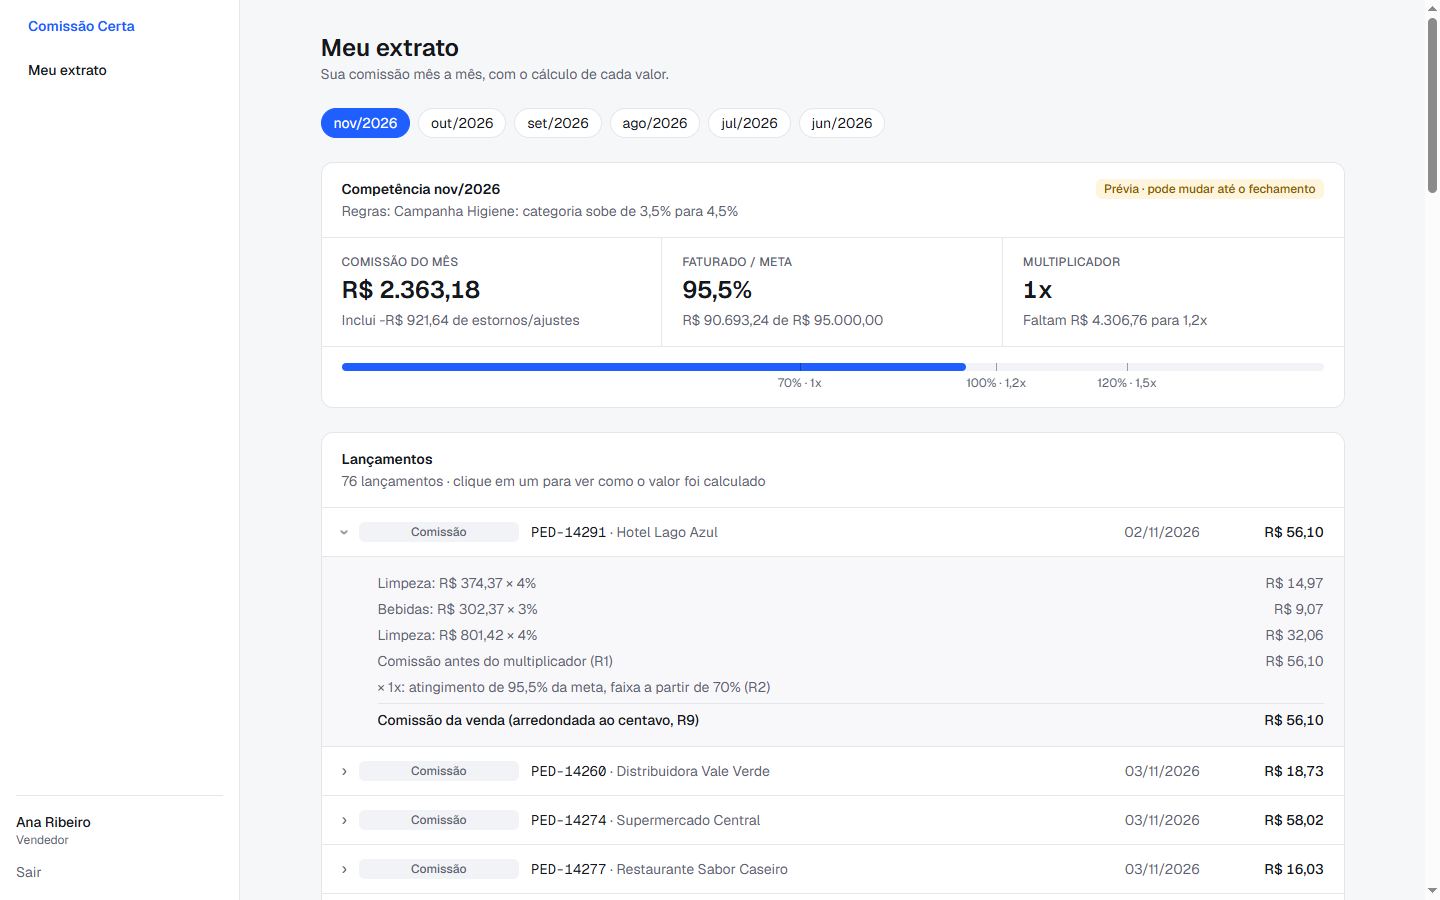
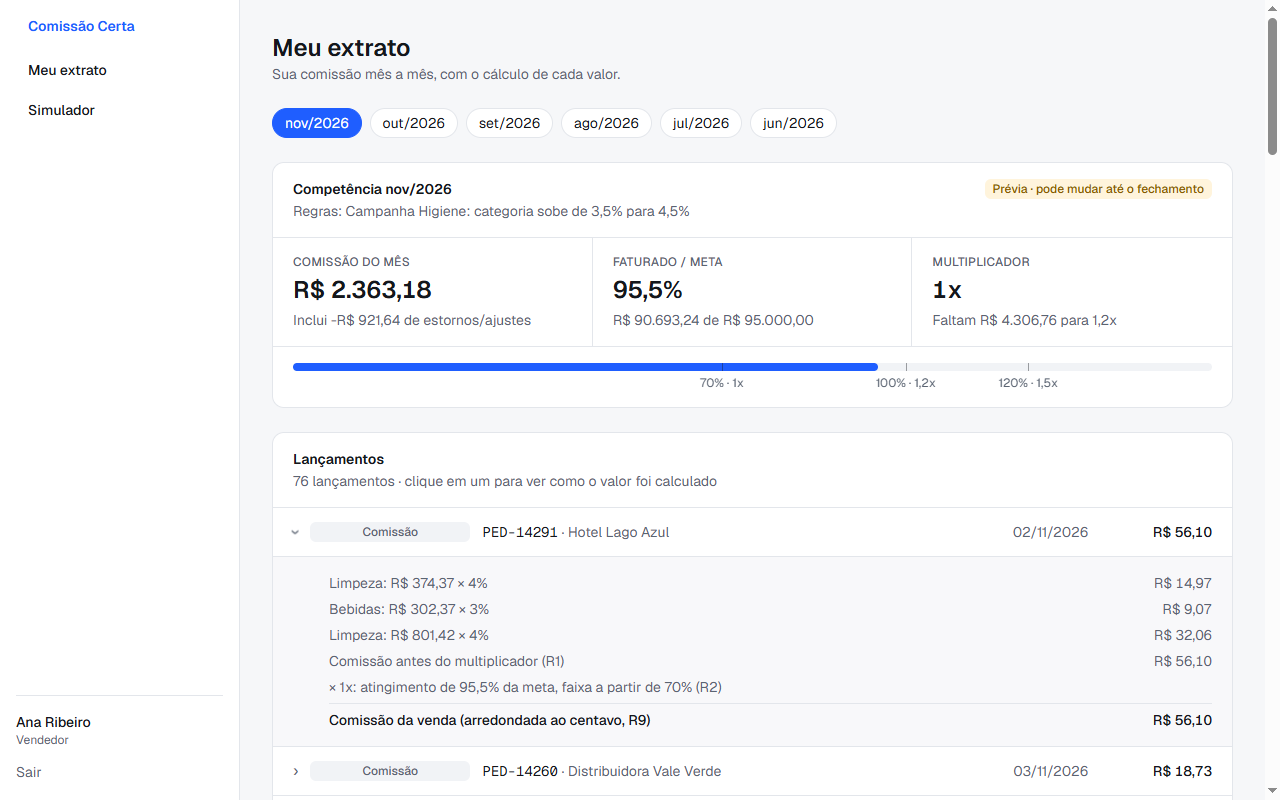
docs: README em formato de case com screenshots de todas as telas
- problema → regras → o que cada papel vê → decisões de engenharia → limitações
- 6 screenshots novos (extrato, simulador, painel do gestor, revisão de regras, importação, fechamento)
- design.md marcado como implementado

diff --git a/README.md b/README.md
@@ -1,56 +1,131 @@
 # Comissão Certa
 
-Motor de comissões de vendas com **regras de negócio versionadas, testadas e explicáveis**, para uma distribuidora B2B fictícia (Distribuidora Horizonte).
+Sistema de comissão de vendas para uma distribuidora B2B fictícia, a **Distribuidora Horizonte**. As regras de negócio ficam no centro: são versionadas, cobertas por testes e explicáveis linha a linha.
 
-> 🚧 Em construção. Pronto até aqui: **motor de regras com 48 testes**, fechamento imutável, seed realista, login com 3 papéis e **extrato do vendedor com memória de cálculo**.
+**119 testes** · **9 regras de negócio** · **3 papéis** (vendedor, gestor, admin) · Next.js 16 + PostgreSQL
 
-![Extrato do vendedor: cada lançamento explica como o valor foi calculado](docs/img/extrato-vendedor.png)
+![Painel do gestor: prévia do mês, projeção para o fim do mês, ranking e evolução](docs/img/painel-gestor.png)
 
 ## O problema
-Em muitas empresas a comissão é calculada em planilha. Faixas de meta, percentuais por categoria, devoluções e clientes inadimplentes viram fórmulas frágeis, e todo fim de mês alguém pergunta: *"por que eu recebi isso?"*
+
+Em muitas empresas, a comissão é calculada em planilha. Faixas de meta, percentual por categoria, devoluções e clientes que não pagam viram fórmulas frágeis. Todo fim de mês alguém pergunta *"por que eu recebi esse valor?"*, e ninguém sabe responder sem abrir a planilha.
+
+O Comissão Certa responde a essa pergunta para cada centavo. Cada lançamento guarda a **memória de cálculo**: itens, percentual, atingimento, faixa e versão das regras usada.
 
 ## As regras
-| # | Regra | Parâmetros iniciais |
+
+| # | Regra | Parâmetros da versão inicial |
 |---|---|---|
-| R1 | Comissão base por categoria | Alimentos 2% · Bebidas 3% · Limpeza 4% · Higiene 3,5% |
-| R2 | Multiplicador por atingimento da meta | < 70% → 0,5x · 70–99% → 1,0x · 100–119% → 1,2x · ≥ 120% → 1,5x |
-| R3 | Estorno por devolução no mês em que ela ocorre | — |
-| R4 | Estorno por inadimplência e reversão se o cliente pagar | tolerância de 60 dias |
+| R1 | Comissão base por categoria, sobre o valor faturado | Alimentos 2% · Bebidas 3% · Limpeza 4% · Higiene 3,5% |
+| R2 | Multiplicador pelo atingimento da meta do mês | < 70% → 0,5x · 70–99% → 1x · 100–119% → 1,2x · ≥ 120% → 1,5x |
+| R3 | Devolução de venda já comissionada gera estorno no mês da devolução | — |
+| R4 | Título vencido há mais de 60 dias estorna a comissão; se o cliente pagar, ela volta | tolerância de 60 dias |
 | R5 | Bônus do gestor quando a equipe bate a meta coletiva | 10% da comissão da equipe |
 | R6 | Teto mensal por vendedor | R$ 25.000,00 |
-| R7 | Regras versionadas por vigência | mudar junho não altera maio |
-| R8 | Fechamento do mês imutável e auditado | — |
-| R9 | Dinheiro em centavos inteiros, arredondamento half-up por linha | — |
+| R7 | Regras versionadas por vigência: mudar dezembro não altera novembro | — |
+| R8 | Mês fechado é imutável e auditado; correções entram no fechamento seguinte | — |
+| R9 | Dinheiro em centavos inteiros e percentuais em pontos-base, arredondamento half-up por linha | — |
 
-Cada linha de comissão guarda a **memória de cálculo** (itens, %, atingimento, faixa, versão), para que qualquer valor possa ser explicado.
+Os testes leem como a regra. Um trecho de [`motor.test.ts`](src/domain/commission/__tests__/motor.test.ts):
 
-Detalhes e decisões: [`docs/design.md`](docs/design.md).
+```ts
+it.each([
+  // faturado, meta, atingimento (bp), multiplicador (bp)
+  [6_999, 10_000, 6_999, 5_000],    // 69,99% → 0,5x
+  [7_000, 10_000, 7_000, 10_000],   // 70%    → 1,0x
+  [10_000, 10_000, 10_000, 12_000], // 100%   → 1,2x
+  [99_999, 100_000, 9_999, 10_000], // 99,999% NÃO arredonda para 100%
+])("faturado %d / meta %d → %d bp → multiplicador %d bp", ...)
+```
 
-## Telas
-- **Extrato do vendedor** (`/vendedor`): comissão do mês, atingimento, multiplicador e cada lançamento com a memória de cálculo.
-- **Simulador do vendedor** (`/vendedor/simulador`): "se eu vender +R$ X em Bebidas até o fim do mês" → novo atingimento, nova faixa e nova comissão, com atalho para completar a próxima faixa na categoria que mais rende. Roda o mesmo motor no navegador, com a entrada recortada só para o vendedor logado (`entradaDoVendedor`): vendas de colegas e metas de equipe não saem do servidor.
-- **Painel do gestor** (`/gestor`): resumo da equipe, bônus do gestor (R5), ranking dos vendedores e evolução mês a mês. No mês em aberto mostra a **prévia** ("se fechasse hoje") e uma **projeção** para o fim do mês: o ritmo de vendas é extrapolado e recalculado pelo mesmo motor, então faixa, teto e bônus são aplicados como num fechamento real (`src/domain/commission/projecao.ts`).
+## O que cada papel vê
 
-- **Regras (admin)** (`/admin/regras`): histórico de versões com o que mudou em cada uma. Uma nova versão parte da vigente, passa por uma revisão com o diff de parâmetros e só pode valer a partir de um mês ainda não fechado (R7/R8). A validação fica em funções puras (`src/domain/commission/versoes.ts`) e é refeita dentro da transação de publicação.
+### Vendedor: extrato e simulador
 
-- **Importar vendas (admin)** (`/admin/importar`): CSV com uma linha por item (`pedido;data;vendedor;cliente;vencimento;categoria;valor`, modelo em `public/modelo-vendas.csv`). O arquivo é validado linha a linha com relatório de erros: pedido repetido, mês já fechado (R8), vendedor sem meta, categoria desconhecida, valor ou data inválidos. Se houver qualquer erro, nada é gravado; a gravação valida de novo dentro da transação.
+O extrato mostra a comissão do mês, o atingimento e quanto falta para a próxima faixa. Clicando em qualquer lançamento, aparece a conta que gerou aquele valor.
 
-- **Fechamento (admin)** (`/admin/fechamento`): prévia do próximo mês com conferência por tipo de lançamento e por equipe, alertas (teto, saldo negativo, vendedor sem vendas, bônus) e fechamento com confirmação digitada, liberado só depois do fim do mês. Abaixo, o histórico dos meses fechados com a versão de regras usada.
+![Extrato do vendedor com a memória de cálculo aberta](docs/img/extrato-vendedor.png)
+
+O simulador responde *"e se eu vender mais R$ X em Higiene até o fim do mês?"*. Ele recalcula atingimento, faixa e comissão a cada número digitado e mostra que a faixa nova vale também para as vendas já feitas.
+
+![Simulador: completar a meta muda a faixa para 1,2x e rende R$ 784,87 a mais](docs/img/simulador.png)
+
+### Gestor: painel da equipe
+
+Mostra o atingimento da equipe, o bônus do gestor (R5), o ranking dos vendedores e a evolução mês a mês (imagem do topo). No mês em aberto, o painel exibe duas visões:
+
+- **Prévia:** quanto seria pago se o mês fechasse hoje.
+- **Projeção:** o ritmo atual de vendas estendido até o fim do mês e recalculado pelo mesmo motor. Faixa, teto e bônus são aplicados como num fechamento de verdade.
+
+### Admin: regras, importação e fechamento
+
+**Regras.** Uma nova versão parte da vigente e passa por uma revisão com o diff dos parâmetros antes de ser publicada. A vigência só pode começar num mês que ainda não foi fechado.
+
+![Revisão de uma nova versão de regras, com o antes e o depois de cada parâmetro](docs/img/regras-revisao.png)
+
+**Importação de vendas por CSV.** O arquivo é validado linha a linha e todos os problemas aparecem num relatório só. A importação é tudo ou nada: se uma linha estiver errada, nenhuma é gravada.
+
+![Relatório de erros da importação: pedido repetido, mês fechado, vendedor e categoria desconhecidos](docs/img/importacao-erros.png)
+
+**Fechamento.** O fluxo é prévia → conferência → fechar. A conferência resume o mês por tipo de lançamento e por equipe e aponta o que merece atenção, como vendedor no teto, saldo negativo ou bônus de equipe. Para fechar, é preciso digitar o nome do mês, e o botão só é liberado depois que o mês termina.
+
+![Conferência do fechamento e histórico dos meses fechados](docs/img/fechamento.png)
+
+## Decisões de engenharia
+
+**O motor é código puro.** As regras ficam em `src/domain/commission/` como funções TypeScript sem banco e sem framework. A função central recebe os dados do mês e devolve os lançamentos e os resumos:
+
+```ts
+calcularFechamento(entrada) → { linhas, vendedores, equipes, totalCentavos }
+```
+
+Isso torna o cálculo determinístico e testável com tabelas de casos. Os parâmetros de cada versão ficam no banco como JSON validado por Zod. Também considerei uma DSL genérica (json-logic) e regras em SQL, e descartei as duas: a DSL esconde a regra de negócio, e o SQL é difícil de testar e de explicar.
+
+**Um motor só, usado em todo lugar.** Fechamento, extrato, painel do gestor, projeção e simulador chamam a mesma função:
+- A **projeção** escala as vendas do mês pelo ritmo e roda o motor de novo (`projecao.ts`).
+- O **simulador** acrescenta uma venda hipotética e roda o motor de novo (`simulacao.ts`).
+
+Assim, não existe uma conta "aproximada" que diverge da conta real.
+
+**O simulador roda no navegador, sem vazar dados.** Para responder a cada número digitado, o motor é executado no cliente. Antes, `entradaDoVendedor` recorta os dados do mês só para o vendedor logado: vendas de colegas e metas de equipe não saem do servidor. Um teste garante que o recorte produz o mesmo resultado que a entrada completa.
+
+**Dinheiro sem float.** Valores ficam em centavos inteiros e percentuais em pontos-base (1% = 100 bp). O que o usuário digita ("25.000,00", "4,5") é convertido com aritmética de strings (`lerDecimal`). O arredondamento acontece uma única vez por linha, e 99,999% de atingimento não vira 100%.
+
+**O passado não muda.** Um mês fechado é gravado com a versão de regras usada e não tem rota de edição. Publicar regras e importar vendas são operações validadas de novo dentro de uma transação `Serializable`. Isso impede que um fechamento concorrente deixe entrar uma venda ou uma vigência num mês que acabou de fechar. Cada uma dessas operações grava uma linha de auditoria.
+
+**Segurança.**
+- A sessão é um JWT (`jose`, HS256) num cookie httpOnly com `SameSite=Lax`.
+- As senhas usam bcrypt, e o login leva o mesmo tempo para contas existentes e inexistentes.
+- O `proxy` faz uma checagem rápida de rota por papel. Mesmo assim, toda página e toda Server Action confere a sessão e o papel de novo no servidor, porque uma action é um endpoint público.
+
+## Estrutura
+
+```
+src/
+  domain/commission/   motor, projeção, simulação, versões, conferência (puro + testes)
+  domain/vendas/       leitura e validação do CSV (puro + testes)
+  server/              acesso ao banco: fechamento, consultas, publicação, importação, auth
+  app/                 rotas: login, vendedor, gestor, admin (Server Components + Actions)
+  components/          UI compartilhada (barra de atingimento, gráfico, memória de cálculo)
+prisma/                schema, migrações e seed da Distribuidora Horizonte
+docs/design.md         design original, regras e decisões
+```
 
 ## Rodar localmente
+
 Pré-requisitos: Node 22+ e Docker.
 
 ```bash
 cp .env.example .env        # gere um SESSION_SECRET novo (instrução no arquivo)
 npm install
-npm run db:up               # Postgres 16 na porta 5434
+npm run db:up               # PostgreSQL 16 na porta 5434
 npm run db:migrate
-npm run db:seed             # Distribuidora Horizonte: ~4.900 pedidos, jun–out fechados
-npm test                    # testes do motor
+npm run db:seed             # ~4.900 pedidos de jun a nov/2026; jun–out já fechados
+npm test                    # 119 testes
 npm run dev
 ```
 
-**Contas de demonstração** (senha `horizonte123`, apenas local):
+**Contas de demonstração** (senha `horizonte123`, só para uso local):
 
 | Papel | E-mail |
 |---|---|
@@ -58,10 +133,15 @@ npm run dev
 | Gestora (Centro-Oeste) | `marina.costa@horizonte.test` |
 | Vendedora | `ana.ribeiro@horizonte.test` |
 
-## Segurança
-- Sessão em JWT (HS256, `jose`) num cookie httpOnly com `SameSite=Lax` e validade de 8 h.
-- Senhas com bcrypt. O login responde no mesmo tempo para contas existentes e inexistentes.
-- O `proxy` faz uma checagem otimista por rota e papel. **Toda leitura de dados confere a sessão e o papel de novo** no servidor (`src/server/auth.ts`).
+Para testar a importação, use o modelo em [`public/modelo-vendas.csv`](public/modelo-vendas.csv), que também pode ser baixado na própria tela.
+
+## Limitações conhecidas
+
+- **Testes:** cobrem o domínio (motor, projeção, simulação, versões, importação). Ainda não há teste de integração do fechamento contra um banco de teste; esse caminho é exercitado pelo seed, que fecha jun–out com o mesmo serviço.
+- **Rascunho de regras:** fica só no formulário e não é salvo no banco.
+- **Vendas existentes:** a importação só cria vendas novas. Pagamentos e devoluções vêm do seed.
+- **Escopo:** uma empresa só, sem deploy (roda localmente).
 
 ## Stack
-Next.js 16 · TypeScript · PostgreSQL 16 · Prisma 7 · Zod · Vitest · Tailwind CSS
+
+Next.js 16 (App Router, Server Actions, Cache Components) · TypeScript · PostgreSQL 16 · Prisma 7 · Zod · Vitest · Tailwind CSS 4 · Recharts

diff --git a/docs/design.md b/docs/design.md
@@ -1,6 +1,6 @@
 # Comissão Certa — design do MVP
 
-> Status: **rascunho para aprovação** (22/11/2026). Nada foi construído ainda.
+> Status: **implementado** (23/11/2026). Este é o design aprovado antes da construção; o README descreve o resultado e as decisões tomadas no caminho.
 
 ## 1. O que é e por quê
 Motor de comissões de vendas para uma **distribuidora B2B fictícia**. Projeto de vitrine do GitHub de Thiago B Clemente. O objetivo é provar o diferencial do portfólio, **"entendo a regra de negócio e construo o sistema inteiro"**, com regras reais, versionadas, testadas e explicáveis.
